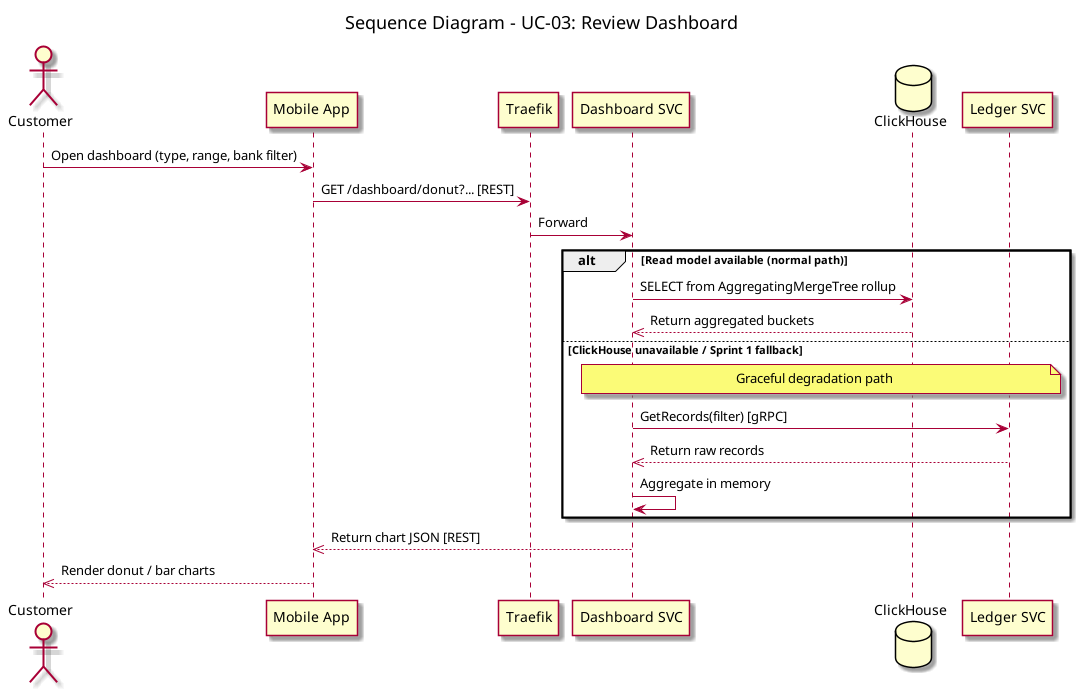
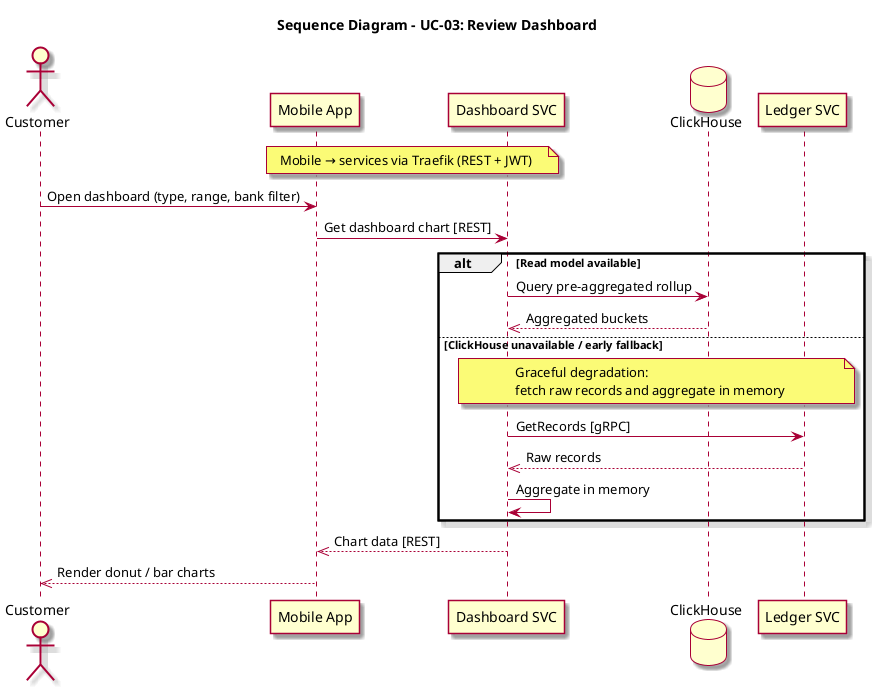
docs: raise sequence diagrams to architecture-level wording and pin rose skin

diff --git a/docs/arch/microservices-design/architecture-diagram.md b/docs/arch/microservices-design/architecture-diagram.md
@@ -109,18 +109,20 @@ The main asynchronous receipt ingestion and category suggestion pipeline:
 
 ![Sequence Diagram - UC-01](./Sequence_UC01.png)
 
-- **Synchronous user acknowledgment**: The user receives a synchronous `201 Created` once Ledger persists the financial record. Receipt state converges asynchronously via `ledger.expense.created`.
-- **Duplicate protection**: `UNIQUE (receipt_id)` on the ledger table guarantees that double-tapping a confirmation notification is a no-op.
+- **Synchronous user acknowledgment**: The user gets a synchronous success once Ledger persists the financial record. Receipt state converges asynchronously via `ledger.expense.created`.
+- **Duplicate protection**: Image-hash dedupe at upload; `UNIQUE (receipt_id)` on the ledger table makes double-tap confirmation a no-op.
+- **Reliability**: Receipt and Ledger writes use the transactional outbox so DB commit and event publish stay atomic.
 
 ---
 
 ## Sequence — UC-03: Dashboard
 
-Dashboard query path with ClickHouse AggregatingMergeTree and gRPC degradation fallback:
+Dashboard query path with a ClickHouse read model and gRPC degradation fallback:
 
 ![Sequence Diagram - UC-03](./Sequence_UC03.png)
 
-- **Graceful degradation**: If ClickHouse is unavailable or during early Sprint 1 before the OLAP read model is initialized, Dashboard SVC falls back to `GetRecords` gRPC calls to Ledger SVC and aggregates in memory.
+- **Graceful degradation**: If ClickHouse is unavailable or before the OLAP read model is ready, Dashboard SVC falls back to `GetRecords` gRPC on Ledger SVC and aggregates in memory.
+- **Rollups**: ClickHouse `AggregatingMergeTree` (see Data ownership).
 
 ---
 
